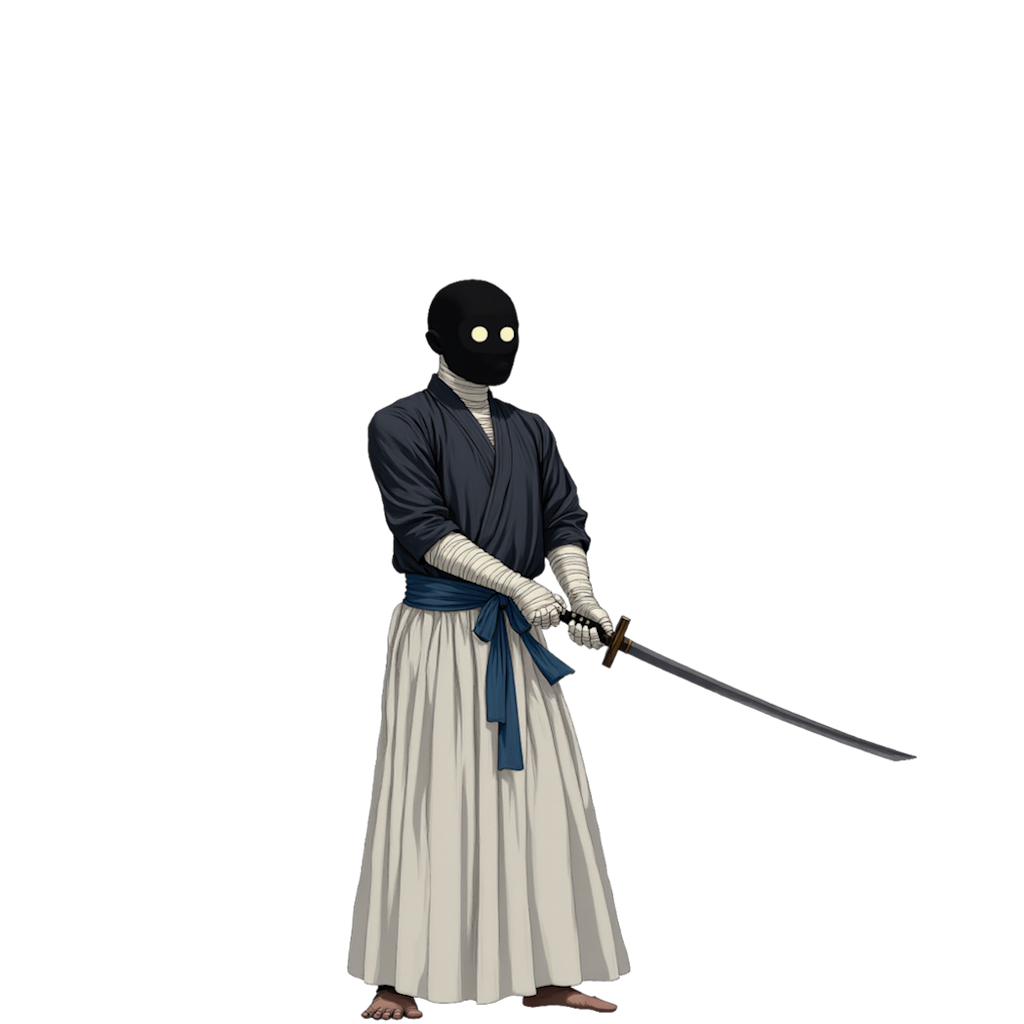
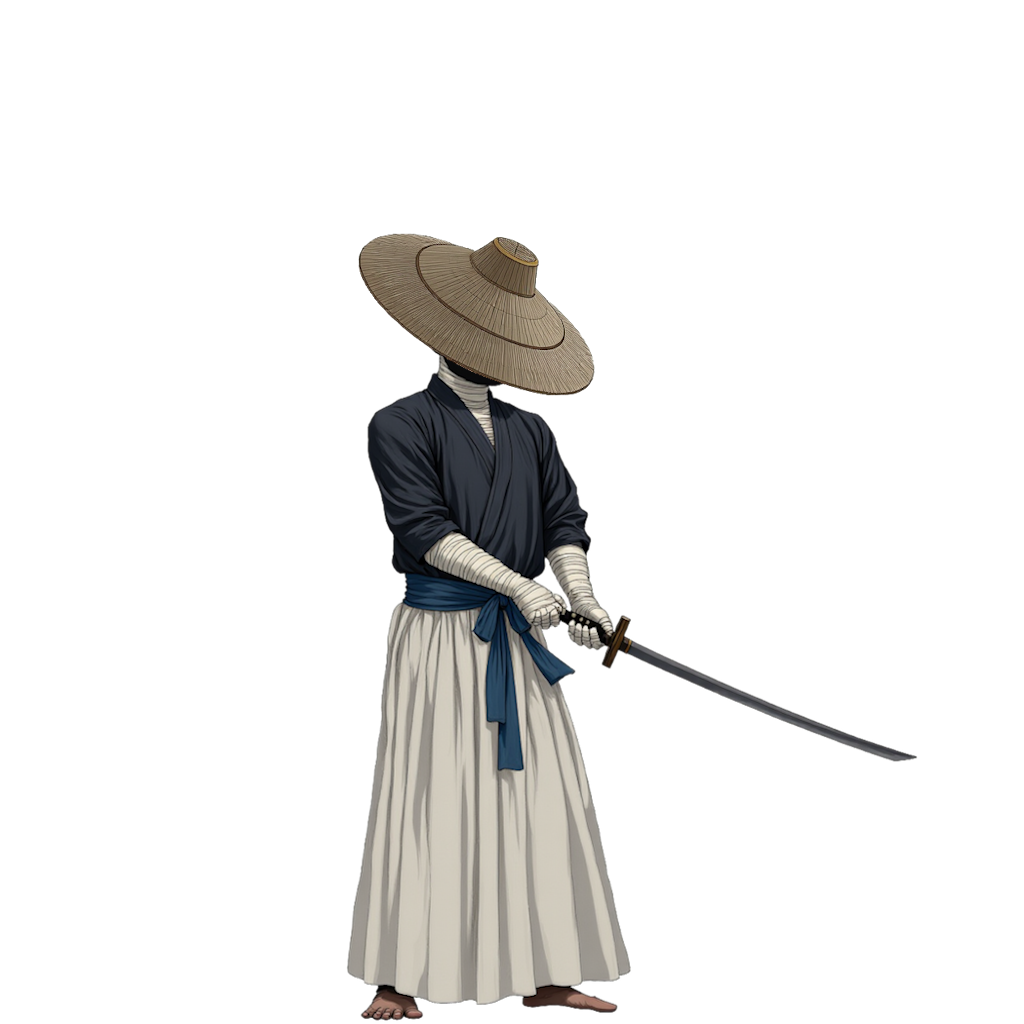
char select bg, rest site, merchant art

Changed region(s): [[0.3438, 0.2188, 0.5938, 0.4062]]

diff --git a/WandererCode/Character/Wanderer.cs b/WandererCode/Character/Wanderer.cs
@@ -46,6 +46,9 @@ public class Wanderer : PlaceholderCharacterModel
         These are just some of the simplest assets, given some placeholders to differentiate your character with. 
         You don't have to, but you're suggested to rename these images. */
     public override string CustomVisualPath => "res://Wanderer/scenes/wanderer/wanderer.tscn";
+    public override string CustomRestSiteAnimPath => "res://Wanderer/scenes/wanderer/wanderer_rest_site.tscn";
+    public override string CustomMerchantAnimPath => "res://Wanderer/scenes/wanderer/wanderer_merchant.tscn";
+    public override string CustomCharacterSelectBg => "res://Wanderer/scenes/wanderer/char_select_bg_wanderer.tscn";
 
     public override string CustomIconTexturePath => "character_icon_char_name.png".CharacterUiPath();
     public override string CustomCharacterSelectIconPath => "char_select_char_name.png".CharacterUiPath();
